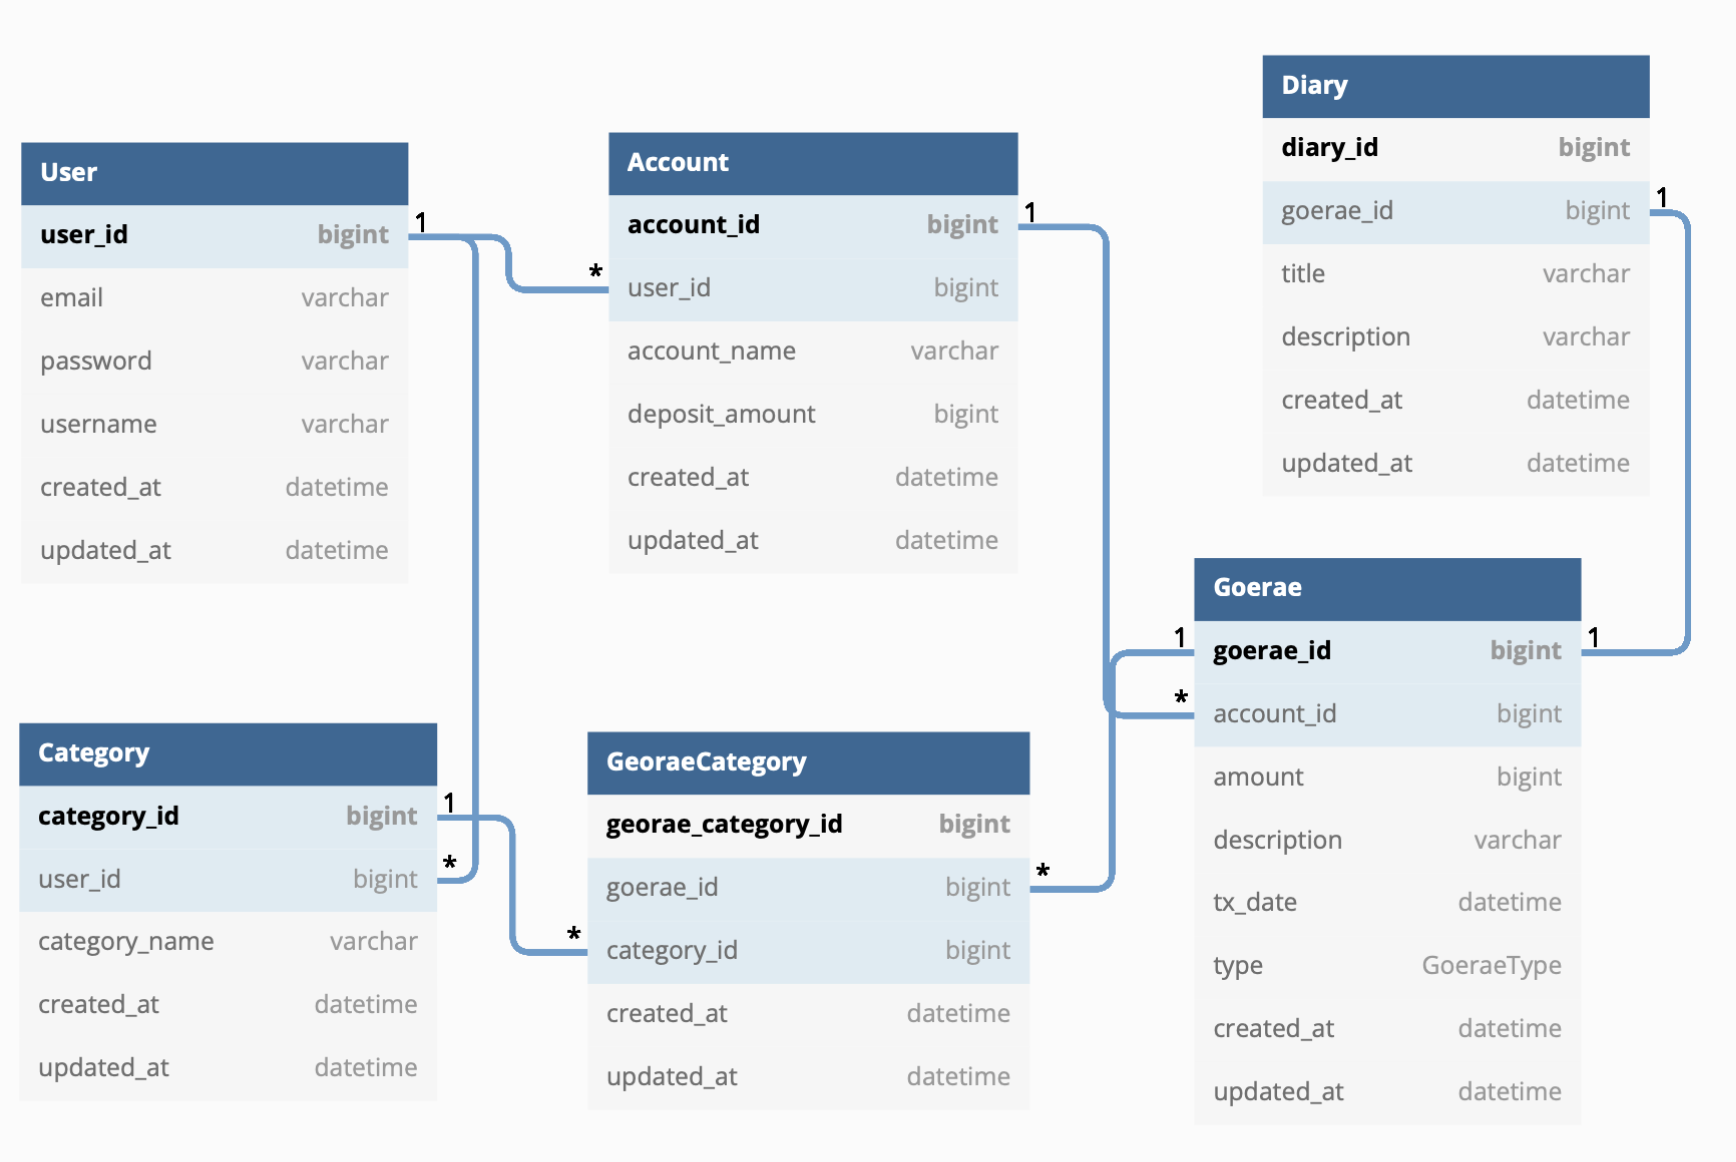
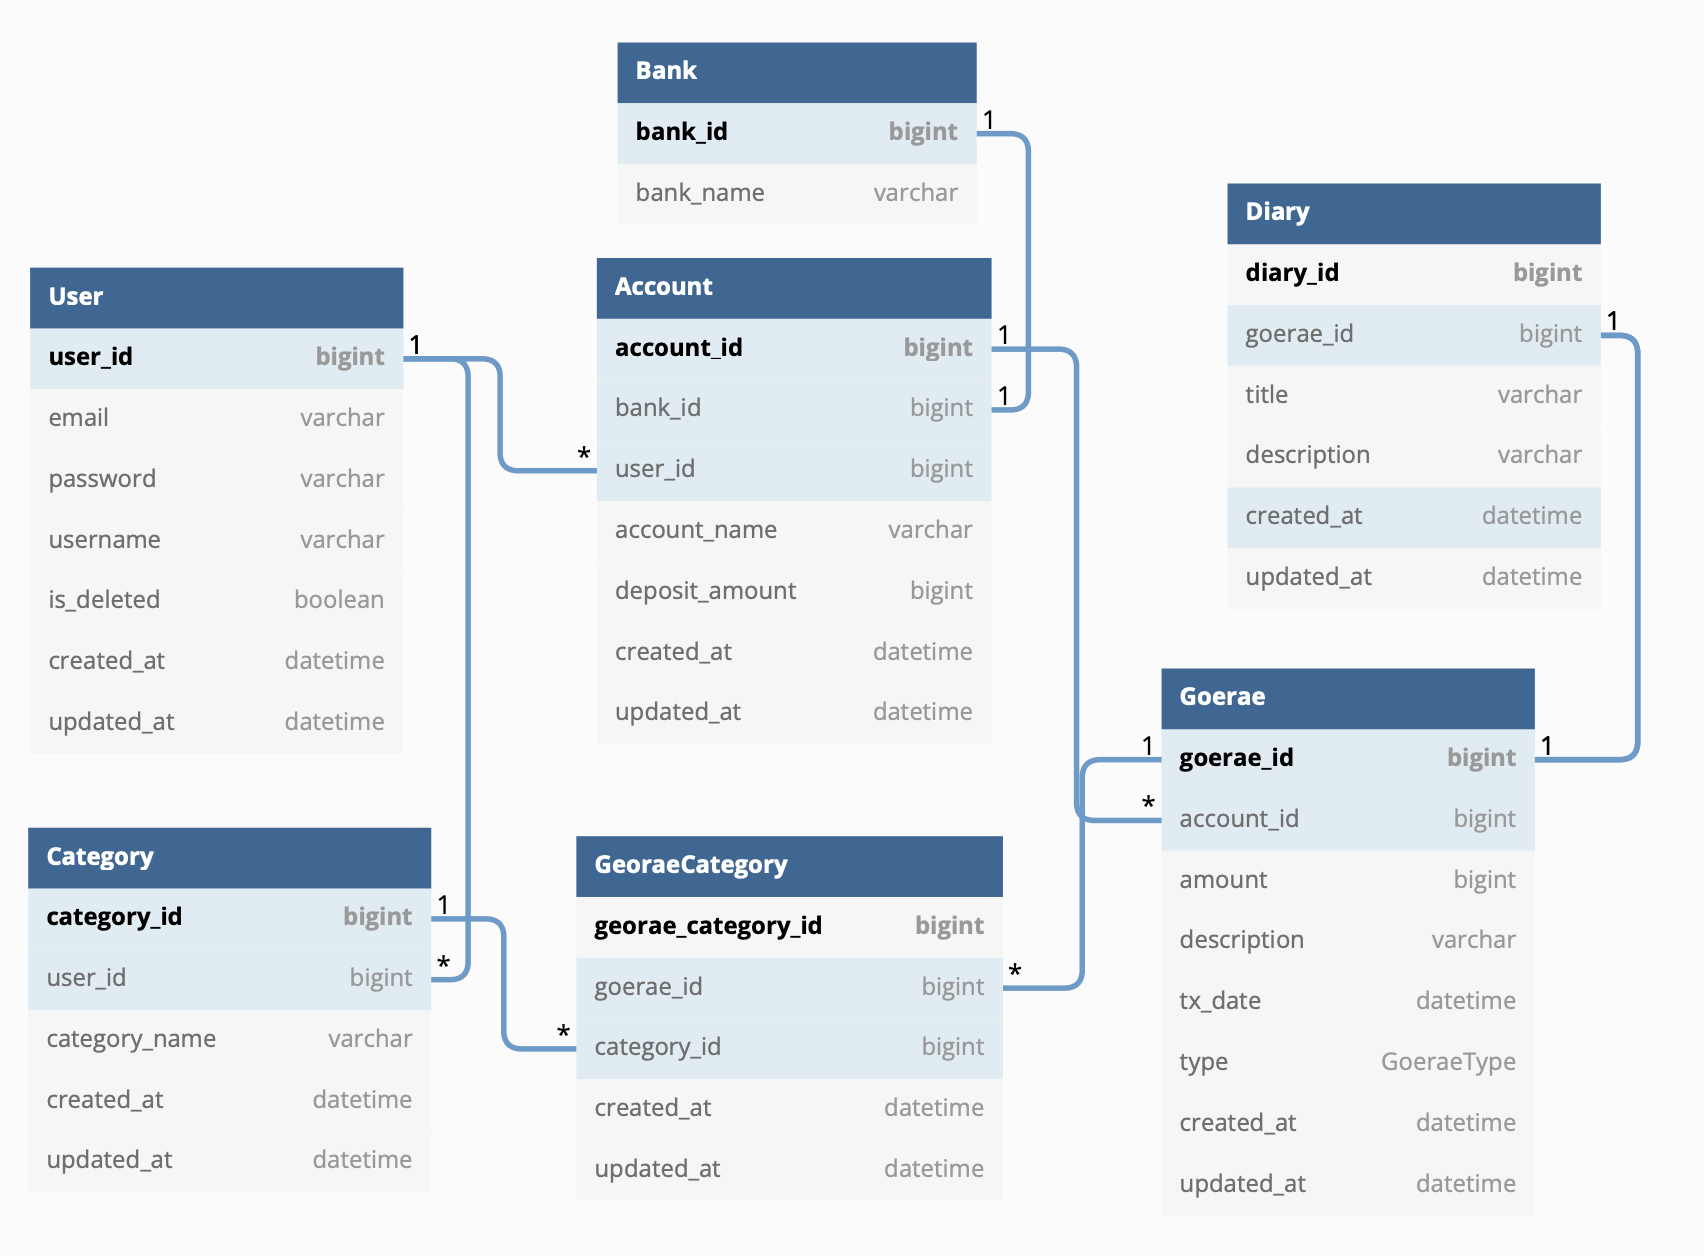
README.md update
ERD 및 README 업데이트

diff --git a/README.md b/README.md
@@ -14,13 +14,13 @@
 | 데이터베이스 | PostgreSQL (Release 13.7) |
 | 버전 관리 | Github, Git |
 | 배포 및 운영 | AWS EC2, AWS RDS, AWS S3, Docker, Github Actions  |
-| 오픈소스 및 외부 라이브러리 |  |
+| 오픈소스 및 외부 라이브러리 | Naver API, Kakao API |
 
 
 ## 🛠 세부 기술 스택(Tech Stack)
 
 ### 백엔드(Back-end)
-
+- **Java 11**
 - **Spring Boot 2.7.0**
 	- Spring Web MVC
 	- Spring Data JPA
@@ -50,6 +50,11 @@
 
 - 계좌와 회원의 관계 : 회원은 여러 개의 계좌를 소유할 수 있다.(N:1)
 - 계좌와 거래의 관계 : 한 개의 계좌에서 여러번의 거래가 발생할 수 있다.(1:N)
+- 계좌와 은행의 관계 : 한 개의 계좌는 하나의 은행에 대응된다. (1:1)
+
+### 은행(Bank)
+
+- 계좌와 은행의 관계 : 한 개의 계좌는 하나의 은행에 대응된다. (1:1)
 
 ### 카테고리(Category)
 
@@ -62,7 +67,7 @@
 - 거래와 카테고리의 관계 : 한 개의 카테고리는 여러 개의 거래에서 생길 수 있다. 또한 한 개의 거래는 여러 개의 카테고리가 존재할 수 있다. (N:N)
 - 거래와 일기의 관계 : 한 개의 거래에서는 한 번의 일기를 작성할 수 있다.(1:1)
 
-### 일기
+### 일기(Diary)
 
 - 일기와 거래의 관계 : 한 개의 거래에서는 한 번의 일기를 작성할 수 있다.(1:1)
 
